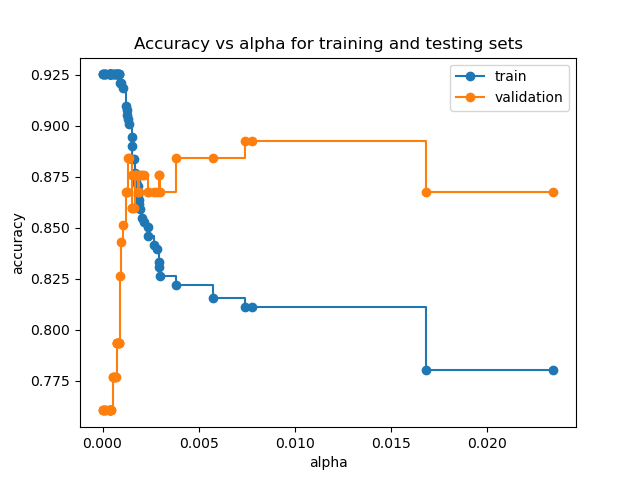
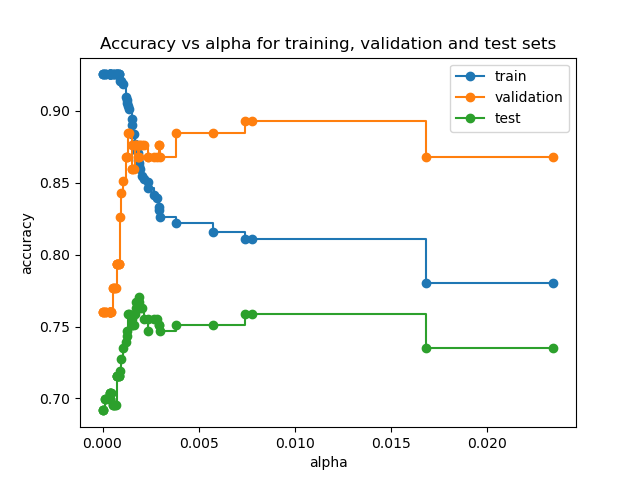
5 parts done

diff --git a/ass3/Q1/Q1.1/qe.py b/ass3/Q1/Q1.1/qe.py
@@ -1,0 +1,142 @@
+from cgi import test
+from sklearn.impute import SimpleImputer
+
+import sys
+import pandas as pd
+import numpy as np
+from sklearn import tree
+import matplotlib.pyplot as plt
+from sklearn.model_selection import GridSearchCV
+
+train_path = sys.argv[1]
+val_path = sys.argv[2]
+test_path = sys.argv[3]
+
+train_data_o = pd.read_csv(train_path+'/train.csv')
+val_data_o = pd.read_csv(val_path + '/val.csv')
+test_data_o = pd.read_csv(test_path + '/test.csv')
+
+train_data_o[train_data_o == '?'] = np.nan
+
+val_data_o[val_data_o == '?'] = np.nan
+
+test_data_o[test_data_o == '?'] = np.nan
+
+
+features = list(train_data_o.columns)
+
+features.remove('Severity')
+features.remove('BI-RADS assessment')
+
+class_names = ['Benign','Malignant']
+
+train_data = train_data_o
+val_data = val_data_o
+test_data = test_data_o
+
+imp_mean = SimpleImputer(missing_values= np.nan, strategy='mean')
+imp_mean.fit(train_data)
+
+train_data = imp_mean.transform(train_data)
+val_data = imp_mean.transform(val_data)
+test_data = imp_mean.transform(test_data)
+
+train_data = np.delete(train_data,0,axis = 1)
+val_data = np.delete(val_data,0,axis = 1)
+test_data = np.delete(test_data,0,axis = 1)
+
+def f(x):
+    return int(x)
+
+arrY = train_data[:,4].astype('int')
+
+val_arrY = val_data[:,4].astype('int')
+test_arrY = test_data[:,4].astype('int')
+
+arrX = np.vectorize(f)(train_data)
+arrX = np.delete(arrX,4,axis=1).astype('int')
+
+val_arrX = np.vectorize(f)(val_data)
+val_arrX = np.delete(val_arrX,4,axis=1).astype('int')
+
+test_arrX = np.vectorize(f)(test_data)
+test_arrX = np.delete(test_arrX,4,axis=1).astype('int')
+
+parameters = {'max_depth':[3], 'min_samples_split': [4,5,6], 'min_samples_leaf': [4,5,6]}
+
+clf = tree.DecisionTreeClassifier()
+tree_clf = GridSearchCV(estimator=clf, param_grid=parameters)
+tree_clf = tree_clf.fit(arrX,arrY)
+tree_clf=tree_clf.best_estimator_
+print("imputer strategy is mean")
+print(tree_clf)
+
+tree_clf = tree_clf.fit(arrX,arrY)
+
+
+ypred = tree_clf.predict(arrX)
+train_acc = np.sum(ypred == arrY)/len(arrY)
+print("Training accuracy : " + str(train_acc))
+
+val_ypred = tree_clf.predict(val_arrX)
+val_acc = np.sum(val_ypred == val_arrY)/len(val_arrY)
+print("Validation accuracy : " + str(val_acc))
+
+test_ypred = tree_clf.predict(test_arrX)
+test_acc = np.sum(test_ypred == test_arrY)/len(test_arrY)
+print("Test accuracy : " + str(test_acc))
+
+train_data = train_data_o
+val_data = val_data_o
+test_data = test_data_o
+
+imp_median = SimpleImputer(missing_values= np.nan, strategy='median')
+imp_median.fit(train_data)
+
+train_data = imp_median.transform(train_data)
+val_data = imp_median.transform(val_data)
+test_data = imp_median.transform(test_data)
+
+train_data = np.delete(train_data,0,axis = 1)
+val_data = np.delete(val_data,0,axis = 1)
+test_data = np.delete(test_data,0,axis = 1)
+
+def f(x):
+    return int(x)
+
+arrY = train_data[:,4].astype('int')
+
+val_arrY = val_data[:,4].astype('int')
+test_arrY = test_data[:,4].astype('int')
+
+arrX = np.vectorize(f)(train_data)
+arrX = np.delete(arrX,4,axis=1).astype('int')
+
+val_arrX = np.vectorize(f)(val_data)
+val_arrX = np.delete(val_arrX,4,axis=1).astype('int')
+
+test_arrX = np.vectorize(f)(test_data)
+test_arrX = np.delete(test_arrX,4,axis=1).astype('int')
+
+parameters = {'max_depth':[3], 'min_samples_split': [4,5,6], 'min_samples_leaf': [4,5,6]}
+
+clf = tree.DecisionTreeClassifier()
+tree_clf = GridSearchCV(estimator=clf, param_grid=parameters)
+tree_clf = tree_clf.fit(arrX,arrY)
+tree_clf=tree_clf.best_estimator_
+print("imputer strategy is median")
+print(tree_clf)
+
+tree_clf = tree_clf.fit(arrX,arrY)
+
+ypred = tree_clf.predict(arrX)
+train_acc = np.sum(ypred == arrY)/len(arrY)
+print("Training accuracy : " + str(train_acc))
+
+val_ypred = tree_clf.predict(val_arrX)
+val_acc = np.sum(val_ypred == val_arrY)/len(val_arrY)
+print("Validation accuracy : " + str(val_acc))
+
+test_ypred = tree_clf.predict(test_arrX)
+test_acc = np.sum(test_ypred == test_arrY)/len(test_arrY)
+print("Test accuracy : " + str(test_acc))

diff --git a/ass3/Q1/Q1.1/qc.py b/ass3/Q1/Q1.1/qc.py
@@ -1,5 +1,5 @@
 import matplotlib.pyplot as plt
-from sklearn.tree import DecisionTreeClassifier
+from sklearn import tree
 import sys
 import numpy as np
 import pandas as pd
@@ -51,7 +51,7 @@ test_arrX = np.vectorize(f)(test_data)
 test_arrX = np.delete(test_arrX,4,axis=1).astype('int')
 
 
-clf = DecisionTreeClassifier(random_state=0)
+clf = tree.DecisionTreeClassifier(random_state=0)
 path = clf.cost_complexity_pruning_path(arrX, arrY)
 ccp_alphas, impurities = path.ccp_alphas, path.impurities
 
@@ -64,14 +64,9 @@ fig.savefig('Total Impurity vs effective alpha for training set.png')
 
 clfs = []
 for ccp_alpha in ccp_alphas:
-    clf = DecisionTreeClassifier(random_state=0, ccp_alpha=ccp_alpha)
+    clf = tree.DecisionTreeClassifier(random_state=0, ccp_alpha=ccp_alpha)
     clf.fit(arrX, arrY)
     clfs.append(clf)
-print(
-    "Number of nodes in the last tree is: {} with ccp_alpha: {}".format(
-        clfs[-1].tree_.node_count, ccp_alphas[-1]
-    )
-)
 
 clfs = clfs[:-1]
 ccp_alphas = ccp_alphas[:-1]
@@ -97,8 +92,33 @@ test_scores = [clf.score(test_arrX, test_arrY) for clf in clfs]
 fig, ax = plt.subplots()
 ax.set_xlabel("alpha")
 ax.set_ylabel("accuracy")
-ax.set_title("Accuracy vs alpha for training and testing sets")
+ax.set_title("Accuracy vs alpha for training, validation and test sets")
 ax.plot(ccp_alphas, train_scores, marker="o", label="train", drawstyle="steps-post")
 ax.plot(ccp_alphas, val_scores, marker="o", label="validation", drawstyle="steps-post")
+ax.plot(ccp_alphas, test_scores, marker="o", label="test", drawstyle="steps-post")
 ax.legend()
 fig.savefig('accuracy vs alpha.png')
+
+
+#best tree is one with highest validation accuracy 
+#ccp_alpha = 0.015
+
+clf = tree.DecisionTreeClassifier(ccp_alpha = 0.015)
+clf.fit(arrX,arrY)
+
+fig, axes = plt.subplots(nrows = 1,ncols = 1,figsize = (10,10), dpi=600)
+tree.plot_tree(clf,feature_names = features, class_names = class_names, filled=True, rounded = True)
+fig.savefig('q1.1c.png')
+
+
+ypred = clf.predict(arrX)
+train_acc = np.sum(ypred == arrY)/len(arrY)
+print("Training accuracy : " + str(train_acc))
+
+val_ypred = clf.predict(val_arrX)
+val_acc = np.sum(val_ypred == val_arrY)/len(val_arrY)
+print("Validation accuracy : " + str(val_acc))
+
+test_ypred = clf.predict(test_arrX)
+test_acc = np.sum(test_ypred == test_arrY)/len(test_arrY)
+print("Test accuracy : " + str(test_acc))

diff --git a/ass3/Q1/Q1.1/qd.py b/ass3/Q1/Q1.1/qd.py
@@ -1,0 +1,76 @@
+import sys
+import pandas as pd
+import numpy as np
+from sklearn import ensemble
+import graphviz
+import matplotlib.pyplot as plt
+from sklearn.model_selection import GridSearchCV
+
+train_path = sys.argv[1]
+val_path = sys.argv[2]
+test_path = sys.argv[3]
+
+train_data = pd.read_csv(train_path+'/train.csv')
+val_data = pd.read_csv(val_path + '/val.csv')
+test_data = pd.read_csv(test_path + '/test.csv')
+
+train_data[train_data == '?'] = np.nan
+train_data.dropna(inplace=True)
+val_data[val_data == '?'] = np.nan
+val_data.dropna(inplace=True)
+test_data[test_data == '?'] = np.nan
+test_data.dropna(inplace=True)
+
+features = list(train_data.columns)
+
+features.remove('Severity')
+features.remove('BI-RADS assessment')
+
+class_names = ['Benign','Malignant']
+train_data = train_data.to_numpy()
+val_data = val_data.to_numpy()
+test_data = test_data.to_numpy()
+
+train_data = np.delete(train_data,0,axis = 1)
+val_data = np.delete(val_data,0,axis = 1)
+test_data = np.delete(test_data,0,axis = 1)
+
+def f(x):
+    return int(x)
+
+arrY = train_data[:,4].astype('int')
+
+val_arrY = val_data[:,4].astype('int')
+test_arrY = test_data[:,4].astype('int')
+
+arrX = np.vectorize(f)(train_data)
+arrX = np.delete(arrX,4,axis=1).astype('int')
+
+val_arrX = np.vectorize(f)(val_data)
+val_arrX = np.delete(val_arrX,4,axis=1).astype('int')
+
+test_arrX = np.vectorize(f)(test_data)
+test_arrX = np.delete(test_arrX,4,axis=1).astype('int')
+
+parameters = {'max_features': [2,4,3], 'min_samples_split': [5,6,7], 'n_estimators': [90,100,120], 'oob_score': [True]}
+
+clf = ensemble.RandomForestClassifier()
+tree_clf = GridSearchCV(estimator=clf, param_grid=parameters)
+tree_clf = tree_clf.fit(arrX,arrY)
+tree_clf=tree_clf.best_estimator_
+print(tree_clf)
+
+tree_clf.fit(arrX,arrY)
+
+ypred = tree_clf.predict(arrX)
+train_acc = np.sum(ypred == arrY)/len(arrY)
+print("Training accuracy : " + str(train_acc))
+
+print("Out of bag accuracy : " + str(tree_clf.oob_score_))
+val_ypred = tree_clf.predict(val_arrX)
+val_acc = np.sum(val_ypred == val_arrY)/len(val_arrY)
+print("Validation accuracy : " + str(val_acc))
+
+test_ypred = tree_clf.predict(test_arrX)
+test_acc = np.sum(test_ypred == test_arrY)/len(test_arrY)
+print("Test accuracy : " + str(test_acc))

diff --git a/ass3/Q1/Q1.1/qf.py b/ass3/Q1/Q1.1/qf.py
@@ -1,0 +1,62 @@
+import xgboost as xgb
+import sys
+import numpy as np
+import pandas as pd
+
+train_path = sys.argv[1]
+val_path = sys.argv[2]
+test_path = sys.argv[3]
+
+train_data = pd.read_csv(train_path+'/train.csv')
+val_data = pd.read_csv(val_path + '/val.csv')
+test_data = pd.read_csv(test_path + '/test.csv')
+
+train_data[train_data == '?'] = np.nan
+
+val_data[val_data == '?'] = np.nan
+
+test_data[test_data == '?'] = np.nan
+
+features = list(train_data.columns)
+
+features.remove('Severity')
+features.remove('BI-RADS assessment')
+
+class_names = ['Benign','Malignant']
+train_data = train_data.to_numpy()
+val_data = val_data.to_numpy()
+test_data = test_data.to_numpy()
+
+train_data = np.delete(train_data,0,axis = 1)
+val_data = np.delete(val_data,0,axis = 1)
+test_data = np.delete(test_data,0,axis = 1)
+
+def f(x):
+    return int(x)
+
+arrY = train_data[:,4].astype('int')
+
+val_arrY = val_data[:,4].astype('int')
+test_arrY = test_data[:,4].astype('int')
+
+arrX = np.vectorize(f)(train_data)
+arrX = np.delete(arrX,4,axis=1).astype('int')
+
+val_arrX = np.vectorize(f)(val_data)
+val_arrX = np.delete(val_arrX,4,axis=1).astype('int')
+
+test_arrX = np.vectorize(f)(test_data)
+test_arrX = np.delete(test_arrX,4,axis=1).astype('int')
+
+
+ypred = bst.predict(dtrain)
+train_acc = np.sum(ypred == arrY)/len(arrY)
+print("Training accuracy : " + str(train_acc))
+
+val_ypred = bst.predict(dval)
+val_acc = np.sum(val_ypred == val_arrY)/len(val_arrY)
+print("Validation accuracy : " + str(val_acc))
+
+test_ypred = bst.predict(dtest)
+test_acc = np.sum(test_ypred == test_arrY)/len(test_arrY)
+print("Test accuracy : " + str(test_acc))

diff --git a/ass3/Q1/Q1.1/qb.py b/ass3/Q1/Q1.1/qb.py
@@ -52,7 +52,7 @@ val_arrX = np.delete(val_arrX,4,axis=1).astype('int')
 test_arrX = np.vectorize(f)(test_data)
 test_arrX = np.delete(test_arrX,4,axis=1).astype('int')
 
-parameters = {'max_depth':(3, 5, 8), 'min_samples_split': [4,5,6], 'min_samples_leaf': [4,5,6]}
+parameters = {'max_depth':[3, 5, 8], 'min_samples_split': [4,5,6], 'min_samples_leaf': [4,5,6]}
 
 clf = tree.DecisionTreeClassifier()
 tree_clf = GridSearchCV(estimator=clf, param_grid=parameters)
